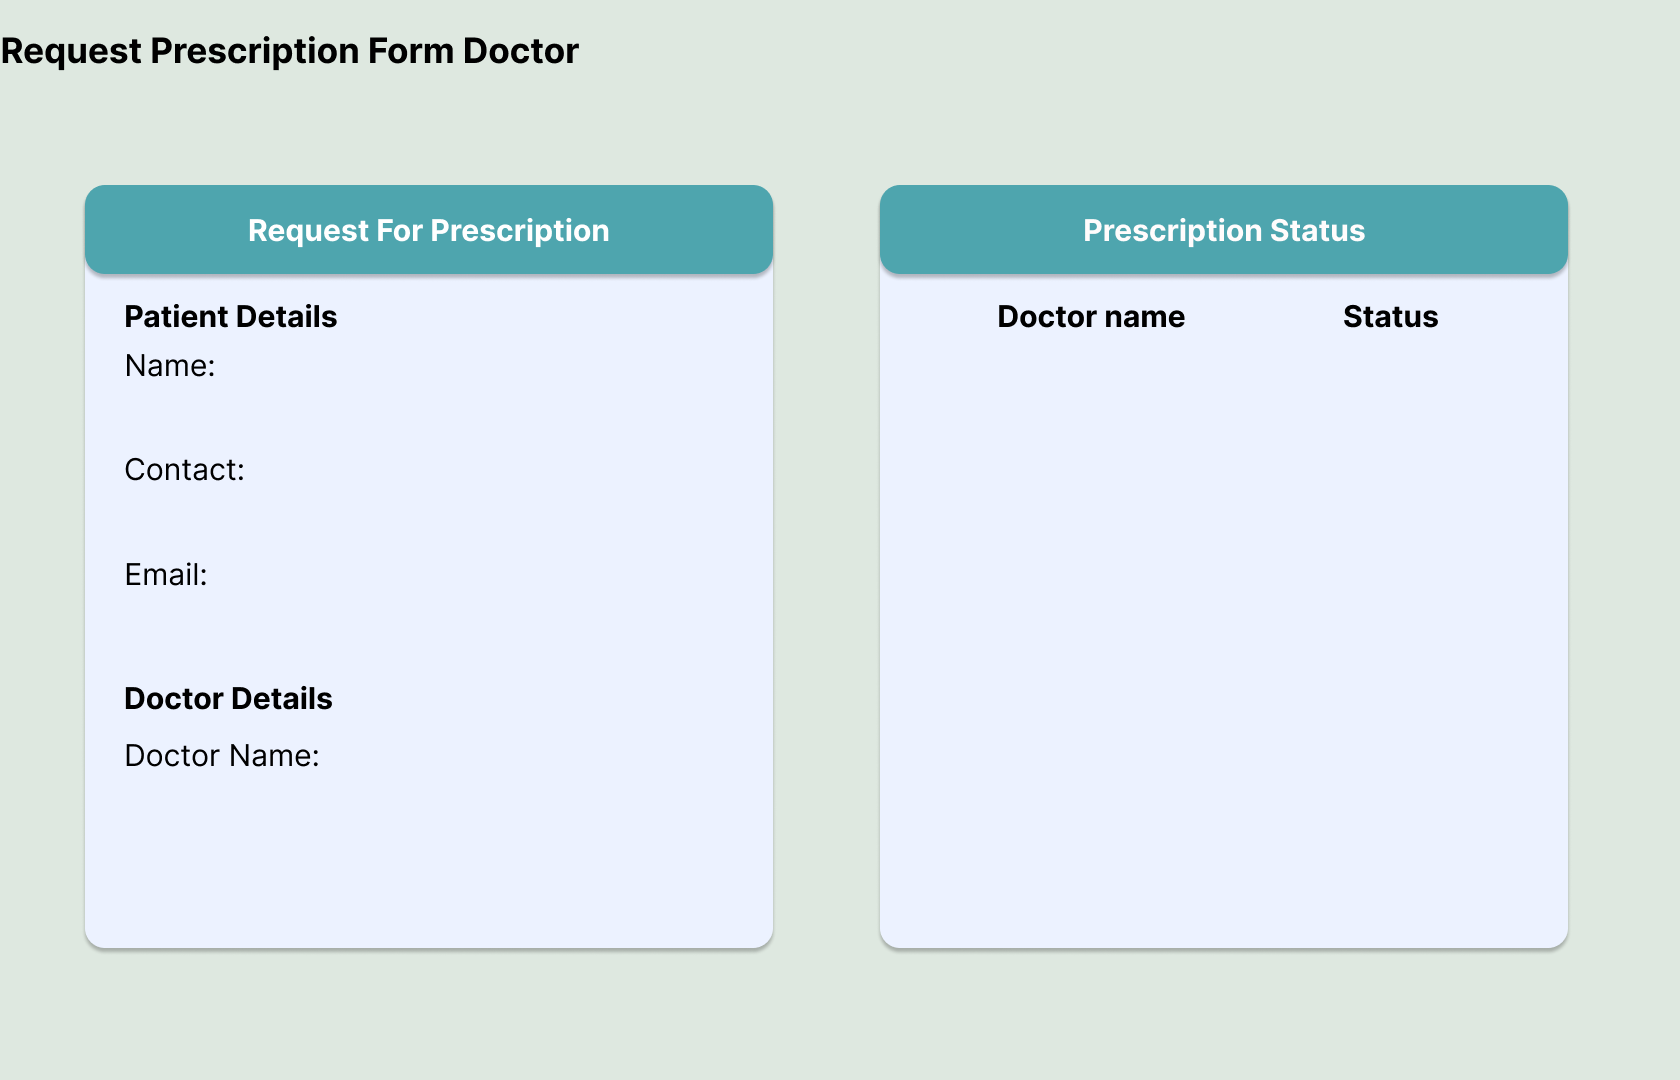
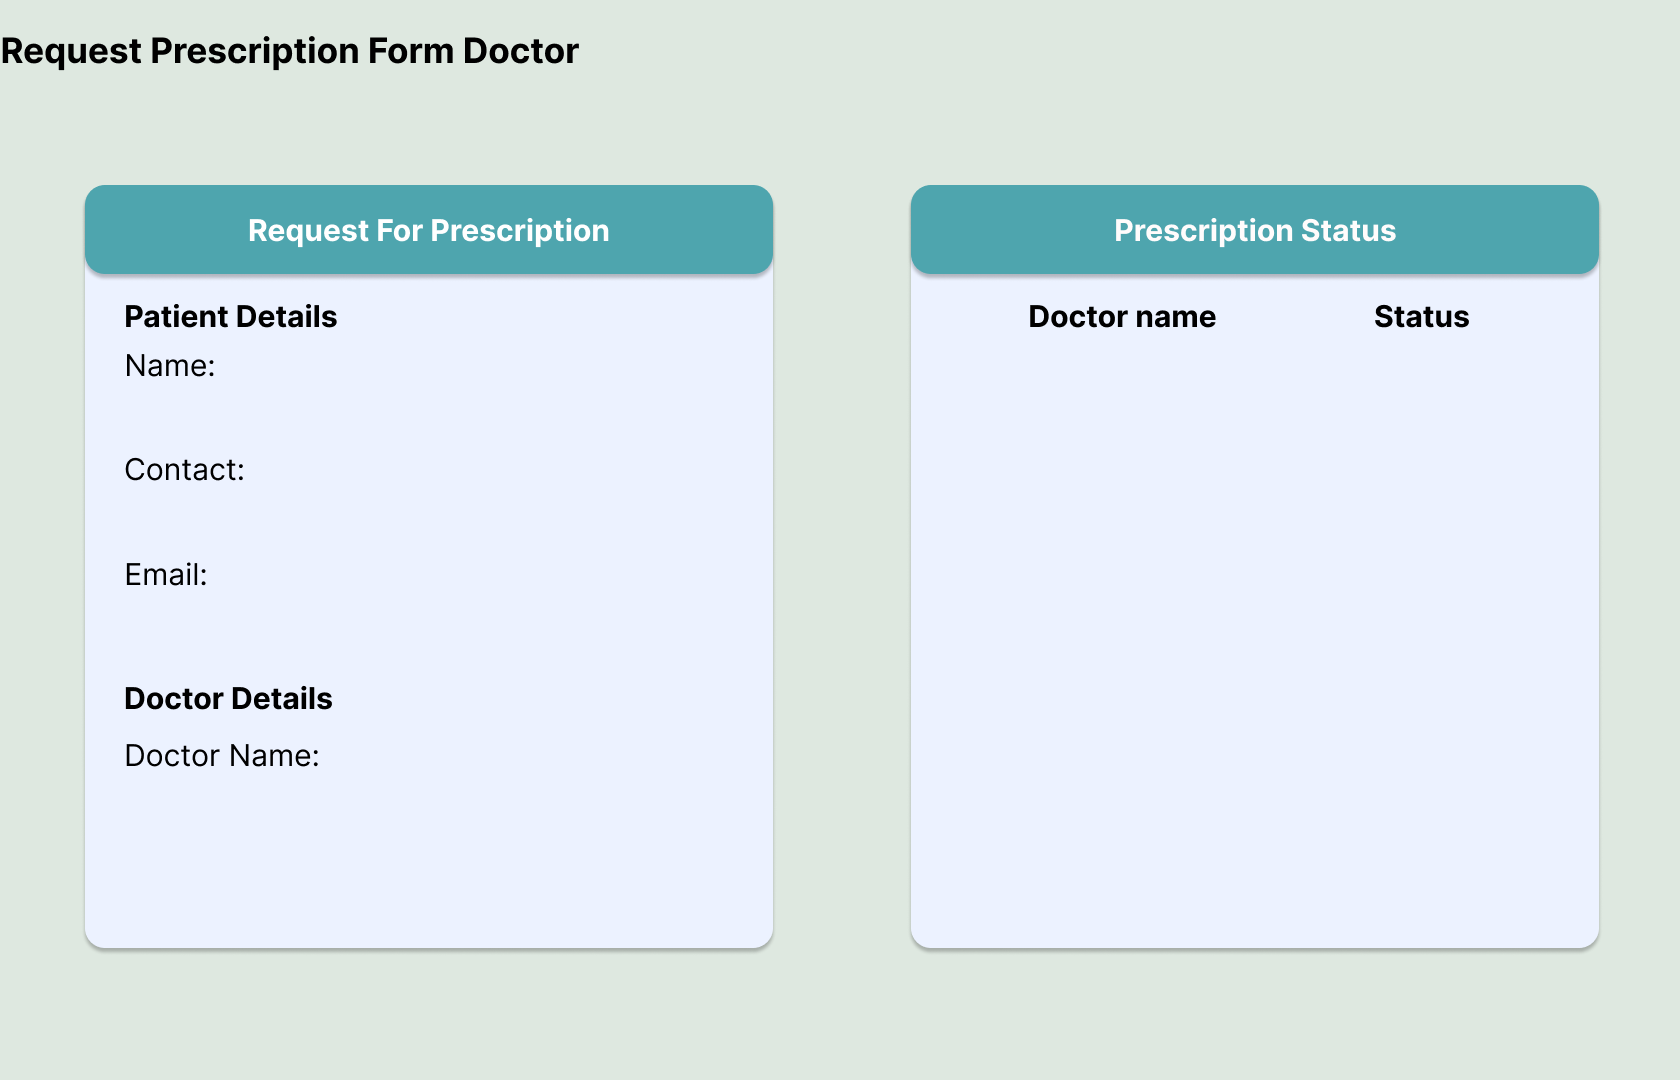
Scroll Frame for doctor view and patient view

diff --git a/views/browseClinic/patientBrowse.py b/views/browseClinic/patientBrowse.py
@@ -2,6 +2,7 @@ from abc import ABC, abstractmethod
 import calendar
 import re
 import threading
+import ttkbootstrap as tb
 from tkinter import *
 from tkinter import ttk
 from tkinter import messagebox
@@ -20,6 +21,7 @@ from pendulum import timezone
 import tkintermapview
 
 
+
 class PatientBrowseClinic(Frame):
     def __init__(self, parent=None, controller: ElementCreator = None):
         super().__init__(parent, width=1, height=1, bg="#dee8e0", name="browseclinicpanel")
@@ -33,6 +35,7 @@ class PatientBrowseClinic(Frame):
         self.createElements()
         self.createFormEntries()
         self.createbutton()
+        self.loadAppScrolledFrame()
 
     def createFrames(self):
         pass
@@ -76,7 +79,63 @@ class PatientBrowseClinic(Frame):
         self.clinicsMap.place(x=0, y=180)
         self.clinicsMap.set_address("Penang, Malaysia")
         self.clinicsMap.set_tile_server(
-            "https://mt0.google.com/vt/lyrs=m&hl=en&x ={x}&y={y}&z={z}&s=Ga", max_zoom=22) 
+            "https://mt0.google.com/vt/lyrs=m&hl=en&x={x}&y={y}&z={z}&s=Ga", max_zoom=22) 
+        
+    def loadAppScrolledFrame(self):
+        prisma = self.prisma
+        # appointments = prisma.appointment.find_many(
+        #     where={
+        #         "doctor": {
+        #             "is": {
+        #                 "userId": self.getUserID()
+        #             }
+        #         }
+        #     },
+        #     include={
+        #         "patient": {
+        #             "include": {
+        #                 "user": True
+        #             }
+        #         }
+        #     }
+        # )
+        appointments = [1, 2, 3, 4, 5, 6, 7]
+        h = len(appointments) * 120
+        if h < 620:
+            h = 620
+
+        #first scroll frame
+        self.viewClinicStatus = ScrolledFrame(
+            master=self, width=1500, height=h, bootstyle="bg-round", autohide=True
+        )
+        self.viewClinicStatus.place(
+            x=8, y=906, width=837, height=136)
+        initCoords = (5, 5)
+        for a in appointments:
+            bg = self.controller.labelCreator(
+                ipath="assets/Dashboard/PatientAssets/PatientListButton/PatientBrowseClinicStatus.png",
+                x=initCoords[0], y=initCoords[1], classname=f"browseClinicStatus{a}", root=self.viewClinicStatus,
+                isPlaced=True
+            )
+            initCoords = (initCoords[0], initCoords[1] + 55)
+
+    
+        self.viewClinicList = ScrolledFrame(
+            master=self, width=1500, height=h, bootstyle="bg-round", autohide=True
+        )
+        self.viewClinicList.place(
+            x=907, y=350, width=750, height=692)
+        initCoords = (5, 5)
+        for a in appointments:
+            #a.fullname.userId
+            bg = self.controller.labelCreator(
+                ipath="assets/Dashboard/PatientAssets/PatientListButton/PatientBrowseClinicLIst.png",
+                x=initCoords[0], y=initCoords[1], classname=f"browseClinicList{a}", root=self.viewClinicList,
+                isPlaced=True
+            )
+            initCoords = (initCoords[0], initCoords[1] + 120)
+
+
         
     def createFormEntries(self):
         CREATOR = self.controller.ttkEntryCreator
@@ -89,14 +148,16 @@ class PatientBrowseClinic(Frame):
         )
 
         # Add a placeholder/hint text
-        self.patientBrowserSelectAddress.insert(0, "Enter your address here")
+        self.patientBrowserSelectAddress.insert(50, "Enter your address here")
        
 
         self.patientBrowserSearchClinic = CREATOR(
-            x=1494, y=195, width=158, height=75,
+            x=1494, y=190, width=158, height=75,
             root=self, classname="Patient_Browse_Clinic",
             font=FONT, isPlaced=True
         )
+
+        self.patientBrowserSearchClinic.insert(0, "Search")
 
     def createbutton(self):
         self.submitButton = self.controller.buttonCreator(

diff --git a/views/appointments/patientViewAppointments.py b/views/appointments/patientViewAppointments.py
@@ -32,6 +32,7 @@ class PatientViewAppointments(Frame):
         self.createElements()
         self.createbutton()
         self.createFormEntries()
+        self.loadAppScrolledFrame()
 
     def createFrames(self):
         pass
@@ -69,6 +70,61 @@ class PatientViewAppointments(Frame):
             root=self, classname="Patient_Appointment_Time",
             font=FONT, isPlaced=True
         )
+
+    def loadAppScrolledFrame(self):
+        prisma = self.prisma
+        # appointments = prisma.appointment.find_many(
+        #     where={
+        #         "doctor": {
+        #             "is": {
+        #                 "userId": self.getUserID()
+        #             }
+        #         }
+        #     },
+        #     include={
+        #         "patient": {
+        #             "include": {
+        #                 "user": True
+        #             }
+        #         }
+        #     }
+        # )
+        appointments = [1, 2, 3, 4, 5, 6, 7]
+        h = len(appointments) * 120
+        if h < 620:
+            h = 620
+
+        #first scroll frame
+        self.appointmentViewClinicListScrolledFrame = ScrolledFrame(
+            master=self, width=1500, height=h, bootstyle="light", autohide=True
+        )
+        self.appointmentViewClinicListScrolledFrame.place(
+            x=44, y=234, width=758, height=759)
+        initCoords = (10, 10)
+        for a in appointments:
+            #a.fullname.userId
+            bg = self.controller.labelCreator(
+                ipath="assets/Dashboard/PatientAssets/PatientListButton/PatientAppointmentClinicList.png",
+                x=initCoords[0], y=initCoords[1], classname=f"appointmentbg{a}", root=self.appointmentViewClinicListScrolledFrame,
+                isPlaced=True
+            )
+            initCoords = (initCoords[0], initCoords[1] + 120)
+
+    
+        self.appointmentViewDcotorListScrolledFrame = ScrolledFrame(
+            master=self, width=1500, height=h, bootstyle="bg-round", autohide=True
+        )
+        self.appointmentViewDcotorListScrolledFrame.place(
+            x=908, y=241, width=644, height=272)
+        initCoords = (25, 25)
+        for a in appointments:
+            #a.fullname.userId
+            bg = self.controller.labelCreator(
+                ipath="assets/Dashboard/PatientAssets/PatientListButton/PatientAppointmentDoctorList.png",
+                x=initCoords[0], y=initCoords[1], classname=f"appointmentbg1{a}", root=self.appointmentViewDcotorListScrolledFrame,
+                isPlaced=True
+            )
+            initCoords = (initCoords[0], initCoords[1] + 120)
 
     def createbutton(self):
         self.submitButton = self.controller.buttonCreator(

diff --git a/views/patientRequests/patientCreateRequests.py b/views/patientRequests/patientCreateRequests.py
@@ -31,6 +31,7 @@ class PatientCreateRequests(Frame):
         self.createFrames()
         self.createElements()
         self.createbutton()
+        self.loadAppScrolledFrame()
         self.createFormEntries()
 
     def createFrames(self):
@@ -38,9 +39,47 @@ class PatientCreateRequests(Frame):
 
     def createElements(self):
         self.controller.labelCreator(
-            ipath="assets/Prescriptions/Patient/BG.png",
+            ipath="assets/Dashboard/PatientAssets/PatientRequestPrescription.png",
             x=0, y=0, classname="requestspanelbg", root=self
         )
+
+    def loadAppScrolledFrame(self):
+        prisma = self.prisma
+        # appointments = prisma.appointment.find_many(
+        #     where={
+        #         "doctor": {
+        #             "is": {
+        #                 "userId": self.getUserID()
+        #             }
+        #         }
+        #     },
+        #     include={
+        #         "patient": {
+        #             "include": {
+        #                 "user": True
+        #             }
+        #         }
+        #     }
+        # )
+        appointments = [1, 2, 3, 4, 5, 6, 7]
+        h = len(appointments) * 120
+        if h < 620:
+            h = 620
+        self.prescriptionStatus = ScrolledFrame(
+            master=self, width=1500, height=h, bootstyle="bg-round", autohide=True
+        )
+        self.prescriptionStatus.place(
+            x=932, y=341, width=647, height=594)
+        initCoords = (40, 40)
+        for a in appointments:
+            #a.fullname.userId
+            bg = self.controller.labelCreator(
+                ipath="assets/Dashboard/PatientAssets/PatientListButton/PatientRequestPrescriptionButton.png",
+                x=initCoords[0], y=initCoords[1], classname=f"prescriptionStatus{a}", root=self.prescriptionStatus,
+                isPlaced=True
+            )
+            initCoords = (initCoords[0], initCoords[1] + 90)
+
 
     def createFormEntries(self):
         CREATOR = self.controller.ttkEntryCreator
@@ -81,3 +120,5 @@ class PatientCreateRequests(Frame):
             ipath="assets/Dashboard/PatientAssets/PatientSubmitButton.png", x=290 , y=853,
             classname = "PatientRequestPrescription" , root=self, buttonFunction=lambda:[print('print=Submit')]
         )
+
+        

diff --git a/views/dashboard/doctorDashboard.py b/views/dashboard/doctorDashboard.py
@@ -33,6 +33,7 @@ class DoctorDashboard(Frame):
         self.createFrames()
         self.createElements()
         self.createPatientList()
+        self.loadAppScrolledFrame()
 
     def createFrames(self):
         pass
@@ -42,6 +43,43 @@ class DoctorDashboard(Frame):
             ipath="assets/Dashboard/DoctorAssets/DoctorDashboard.png",
             x=0, y=0, classname="primarypanelbg", root=self
         )
+
+    def loadAppScrolledFrame(self):
+        prisma = self.prisma
+        # appointments = prisma.appointment.find_many(
+        #     where={
+        #         "doctor": {
+        #             "is": {
+        #                 "userId": self.getUserID()
+        #             }
+        #         }
+        #     },
+        #     include={
+        #         "patient": {
+        #             "include": {
+        #                 "user": True
+        #             }
+        #         }
+        #     }
+        # )
+        appointments = [1, 2, 3, 4, 5, 6, 7]
+        h = len(appointments) * 120
+        if h < 620:
+            h = 620
+        self.appointmentScrolledFrame = ScrolledFrame(
+            master=self, width=1500, height=h, bootstyle="bg-round", autohide=True
+        )
+        self.appointmentScrolledFrame.place(
+            x=80, y=320, width=1500, height=620)
+        initCoords = (20, 20)
+        for a in appointments:
+            bg = self.controller.labelCreator(
+                ipath="assets/Dashboard/DoctorAssets/DoctorListButton/DoctorPatientDetailsButton.png",
+                x=initCoords[0], y=initCoords[1], classname=f"UpcomingAppointment{a}", root=self.appointmentScrolledFrame,
+                isPlaced=True,
+            )
+            initCoords = (initCoords[0], initCoords[1] + 120)
+
 
     def loadAssets(self):
         self.pfp = self.controller.buttonCreator(

diff --git a/views/appointments/doctorViewAppointments.py b/views/appointments/doctorViewAppointments.py
@@ -30,17 +30,17 @@ class DoctorViewAppointments(Frame):
         self.prisma = self.controller.mainPrisma
         self.createFrames()
         self.createElements()
-        self.createDoctorList()
+        self.loadAppScrolledFrame()
+       
 
     def createFrames(self):
         pass
 
     def createElements(self):
         self.controller.labelCreator(
-            ipath="assets/Appointments/Doctor/BG.png",
-            x=0, y=0, classname="appointmentspanelbg", root=self
+            ipath="assets/Dashboard/DoctorAssets/DoctorPrescriptionRequest.png",
+            x=0, y=0, classname="secondarypanelbg", root=self
         )
-        self.loadAppScrolledFrame()
 
     def loadAppScrolledFrame(self):
         prisma = self.prisma
@@ -68,12 +68,15 @@ class DoctorViewAppointments(Frame):
             master=self, width=1500, height=h, bootstyle="bg-round", autohide=True
         )
         self.appointmentScrolledFrame.place(
-            x=80, y=320, width=1500, height=620)
+            x=161, y=280, width=1311, height=683)
         initCoords = (20, 20)
         for a in appointments:
+            #a.fullname.userId
             bg = self.controller.labelCreator(
-                ipath="assets/Appointments/Doctor/SingleAppBG.png",
-                x=initCoords[0], y=initCoords[1], classname=f"appointmentbg{a}", root=self.appointmentScrolledFrame,
+                ipath="assets/Dashboard/DoctorAssets/DoctorListButton/DoctorRequestPrescriptionButton.png",
+                x=initCoords[0], y=initCoords[1], classname=f"AcceptPrescriptionRequest{a}", root=self.appointmentScrolledFrame,
                 isPlaced=True
             )
-            initCoords = (initCoords[0], initCoords[1] + 120)
+            initCoords = (initCoords[0], initCoords[1] + 100)
+
+
